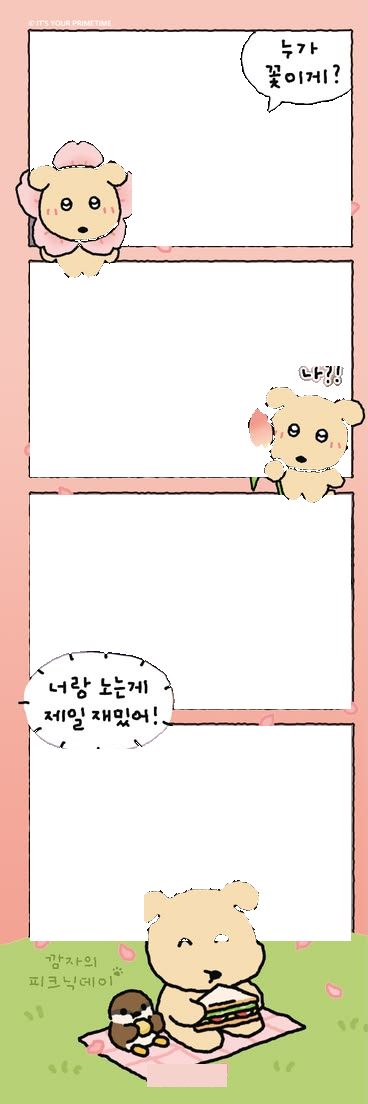
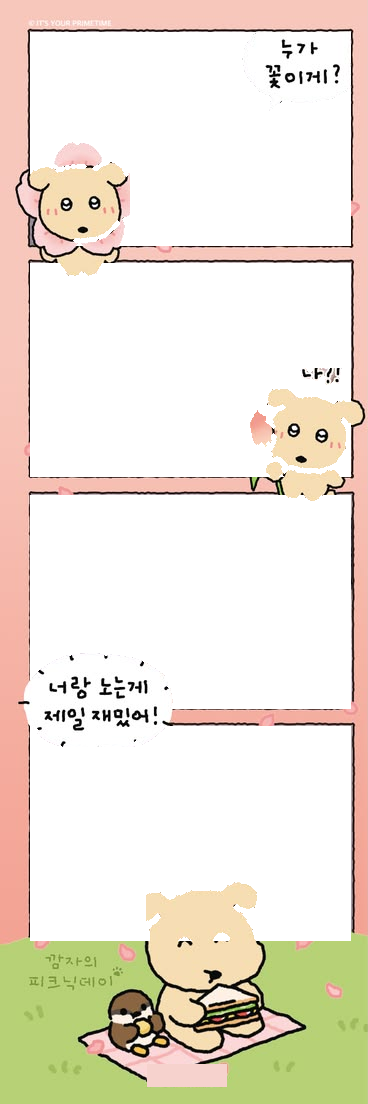
Clean frame artwork edges and reset sepia filter

diff --git a/src/features/booth/Photobooth.tsx b/src/features/booth/Photobooth.tsx
@@ -14,9 +14,9 @@ import {CAPTURE_PROTOCOL,createCapturePlan,readCapturePlan,captureTick,type Capt
 export default function Photobooth({initial,notify}:{initial?:Saved;notify:(s:string)=>void}){
  const roomFromLink=new URLSearchParams(location.hash.slice(1)).get('room')??'';
  const [mode,setMode]=useState<'local'|'remote'>(roomFromLink?'remote':'local');const [settings,setSettings]=useState<BoothSettings>({...boothDefaults,...initial?.settings} as BoothSettings);const [count,setCount]=useState(Math.max(4,presetPoses(initial?.settings?.frame as string??'Four-cut')));const [stage,setStage]=useState<'setup'|'camera'|'review'>(initial?.shots?'review':'setup');const [stream,setStream]=useState<MediaStream|null>(null);const [remote,setRemote]=useState<MediaStream|null>(null);const [shots,setShots]=useState<string[]>(initial?.shots??[]);const [paired,setPaired]=useState<string[]>(initial?.paired??[]);const [selected,setSelected]=useState<number[]>(initial?.selection??[0,1,2,3]);const [plan,setPlan]=useState<Plan|null>(null);const [tick,setTick]=useState({pose:0,left:7,flash:false});const [paused,setPaused]=useState<number[]>([]);const [mirror,setMirror]=useState(true);const [host,setHost]=useState(!roomFromLink);const [code,setCode]=useState(roomFromLink);const [status,setStatus]=useState('');const [connected,setConnected]=useState(false);const [ready,setReady]=useState(false);const [peerReady,setPeerReady]=useState(false);const [backgroundReady,setBackgroundReady]=useState(true);const [ownBackground,setOwnBackground]=useState<string|null>(null);const ownBackgroundRef=useRef(ownBackground);ownBackgroundRef.current=ownBackground;const [focusedPose,setFocusedPose]=useState(0);const [peerInRoom,setPeerInRoom]=useState(false);const [preview,setPreview]=useState('');const [samplePreview,setSamplePreview]=useState('');const [busy,setBusy]=useState(false);const [format,setFormat]=useState('image/png');const [roomAction,setRoomAction]=useState<'create'|'join'|null>(roomFromLink?'join':null);const [roomActive,setRoomActive]=useState(false);const [opening,setOpening]=useState(false);const [ackRevision,setAckRevision]=useState(-1);
- const video=useRef<HTMLVideoElement>(null);const virtualCamera=useRef<VirtualCamera|null>(null);const duo=useRef<Duo|null>(null);const live=useRef({shots,paired,selected,settings,count,stage,mirror,host,mode});live.current={shots,paired,selected,settings,count,stage,mirror,host,mode};const taken=useRef(new Set<number>());const pending=useRef<number[]>([]);const roundId=useRef('');const galleryId=useRef(initial?.id??crypto.randomUUID());const poseIds=useRef<Record<number,string>>({});const uploadInput=useRef<HTMLInputElement>(null);const configRevision=useRef(0);const versionMismatch=useRef(false);const connectionAttempt=useRef(0);const packetHandler=useRef<(p:Packet)=>void>(()=>{});
+ const video=useRef<HTMLVideoElement>(null);const virtualCamera=useRef<VirtualCamera|null>(null);const duo=useRef<Duo|null>(null);const live=useRef({shots,paired,selected,settings,count,stage,mirror,host,mode});live.current={shots,paired,selected,settings,count,stage,mirror,host,mode};const taken=useRef(new Set<number>());const pending=useRef<number[]>([]);const roundId=useRef('');const galleryId=useRef(initial?.id??crypto.randomUUID());const poseIds=useRef<Record<number,string>>({});const uploadInput=useRef<HTMLInputElement>(null);const configRevision=useRef(0);const versionMismatch=useRef(false);const connectionAttempt=useRef(0);const packetHandler=useRef<(p:Packet)=>void>(()=>{});const filterBeforePreset=useRef(settings.filter==='Sepia'?'Original':settings.filter);
  function sendConfig(nextSettings=live.current.settings,nextCount=live.current.count){const revision=++configRevision.current;setAckRevision(-1);setReady(false);setPeerReady(false);duo.current?.send({type:'config',protocol:CAPTURE_PROTOCOL,settings:nextSettings,count:nextCount,revision});}
- const patch=(p:Partial<BoothSettings>)=>{if(mode==='remote'&&(!host||plan))return;const next={...live.current.settings,...p};if(p.frame){const frame=frames.find(f=>f.name===p.frame);if(frame?.defaultFilter){next.filter=frame.defaultFilter;next.intensity=100;}const sheet=['six','hearts','contact','crumb','sepia'].includes(frame?.style??'');if(frame?.style==='duo')next.layout='separate';else if(sheet)next.layout='grid';else if(presetPoses(live.current.settings.frame)===6)next.layout='double';}const required=presetPoses(next.frame);const nextCount=Math.max(live.current.count,required);if(presetPoses(live.current.settings.frame)!==required){const selection=Array.from({length:required},(_,i)=>i).filter(i=>stage!=='review'||!!shots[i]);setSelected(selection);duo.current?.send({type:'selection',selected:selection});}live.current.count=nextCount;setCount(nextCount);live.current.settings=next;setSettings(next);if(mode==='remote')sendConfig(next,nextCount);};
+ const patch=(p:Partial<BoothSettings>)=>{if(mode==='remote'&&(!host||plan))return;const current=live.current.settings,next={...current,...p};if(p.filter)filterBeforePreset.current=p.filter;if(p.frame){const previous=frames.find(f=>f.name===current.frame),frame=frames.find(f=>f.name===p.frame);if(frame?.defaultFilter){if(!previous?.defaultFilter||current.filter!==previous.defaultFilter)filterBeforePreset.current=current.filter;next.filter=frame.defaultFilter;next.intensity=100;}else if(previous?.defaultFilter&&current.filter===previous.defaultFilter)next.filter=filterBeforePreset.current;const sheet=['six','hearts','contact','crumb','sepia'].includes(frame?.style??'');if(frame?.style==='duo')next.layout='separate';else if(sheet)next.layout='grid';else if(presetPoses(current.frame)===6)next.layout='double';}const required=presetPoses(next.frame);const nextCount=Math.max(live.current.count,required);if(presetPoses(current.frame)!==required){const selection=Array.from({length:required},(_,i)=>i).filter(i=>stage!=='review'||!!shots[i]);setSelected(selection);duo.current?.send({type:'selection',selected:selection});}live.current.count=nextCount;setCount(nextCount);live.current.settings=next;setSettings(next);if(mode==='remote')sendConfig(next,nextCount);};
  function changeCount(n:number){if(n<presetPoses(settings.frame)||mode==='remote'&&(!host||plan))return;live.current.count=n;setCount(n);if(mode==='remote')sendConfig(live.current.settings,n);}
 
  function cancel(broadcast=true){setPlan(null);setPaused([]);setReady(false);duo.current?.send({type:'ready',roundId:roundId.current,value:false,revision:configRevision.current});if(broadcast)duo.current?.send({type:'cancel'});}

diff --git a/e2e/frame-presets.spec.ts b/e2e/frame-presets.spec.ts
@@ -16,7 +16,7 @@ test('reference borders render, export, and six-cut frames select six different 
  await expect(page.locator('.review-photos .section-label')).toContainText('6 / 6');
  await page.getByLabel('Paper',{exact:true}).selectOption('Pink Crumb');
  await expect(page.getByRole('button',{name:'Save your strip',exact:true})).toBeEnabled();
- await page.getByLabel('Paper',{exact:true}).selectOption('Sepia Six-cut');await expect(page.getByLabel('Filter',{exact:true})).toHaveValue('Sepia');await expect(page.locator('.review-photos .section-label')).toContainText('6 / 6');await page.getByLabel('Paper',{exact:true}).selectOption('Pink Crumb');
+ await page.getByLabel('Paper',{exact:true}).selectOption('Sepia Six-cut');await expect(page.getByLabel('Filter',{exact:true})).toHaveValue('Sepia');await expect(page.locator('.review-photos .section-label')).toContainText('6 / 6');await page.getByLabel('Paper',{exact:true}).selectOption('Pink Crumb');await expect(page.getByLabel('Filter',{exact:true})).toHaveValue('Dreamy White');
  const download=page.waitForEvent('download');await page.getByRole('button',{name:'Save your strip',exact:true}).click();const png=readFileSync((await (await download).path())!);expect(png.readUInt32BE(16)).toBe(1040);expect(png.readUInt32BE(20)).toBe(1584);
  const results=await page.evaluate(async()=>{
   const path='/src/features/booth/render.ts',presetsPath='/src/features/booth/presets.ts';

diff --git a/src/lib/realtime/timing.ts b/src/lib/realtime/timing.ts
@@ -1,4 +1,4 @@
-export const CAPTURE_PROTOCOL='duo-seven-original-art-v5';
+export const CAPTURE_PROTOCOL='duo-seven-original-art-v6';
 export const COUNTDOWN_MS=7000;
 export const PREVIEW_MS=2000;
 export type CapturePlan={protocol:string;indices:number[];start:number;deadlines:number[];countdownMs:number;previewMs:number};

diff --git a/scripts/extract-frame-art.py b/scripts/extract-frame-art.py
@@ -52,7 +52,9 @@ def pixels_for_art(rgb,box,kind):
  keep=np.flatnonzero(areas>=max(250 if kind=='heart' else 15,areas.max()*.035))
  mask=np.isin(labels,keep)
  mask=mask if kind=='heart' else ndi.binary_fill_holes(mask)
- mask=ndi.binary_dilation(mask,iterations=1 if kind=='heart' else 2)
+ # Keep the source-colored silhouette itself. Expanding it captured the old
+ # sample photo/paper around the art, which appeared as a pale halo when the
+ # overlay was placed over a visitor's picture.
  return mask
 
 if args.download:
